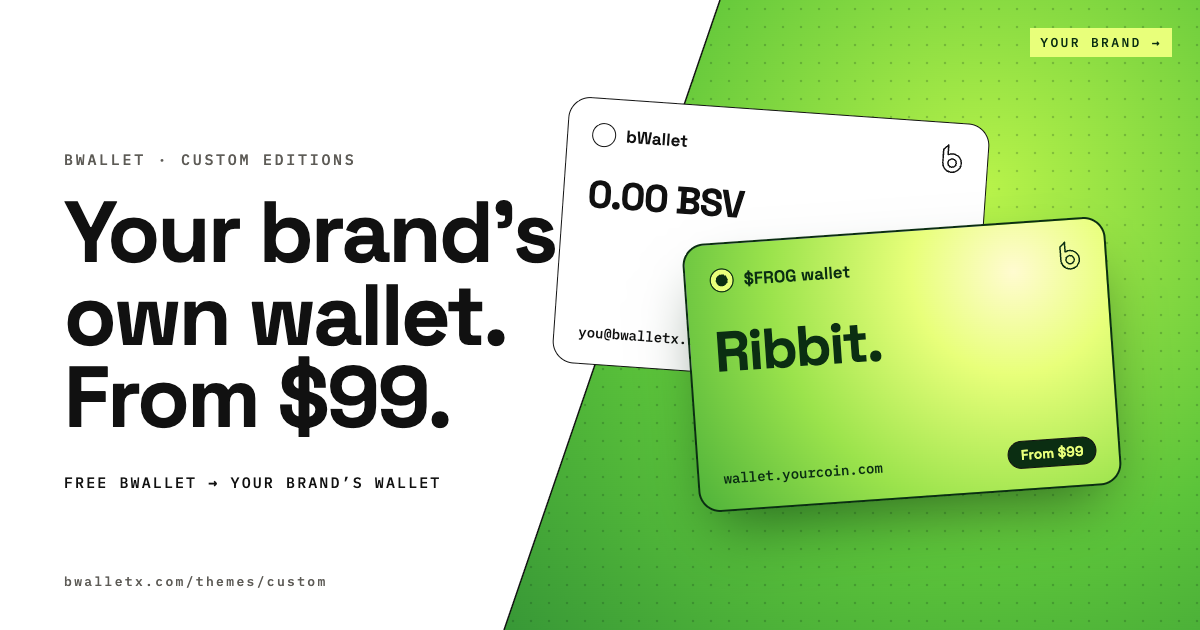
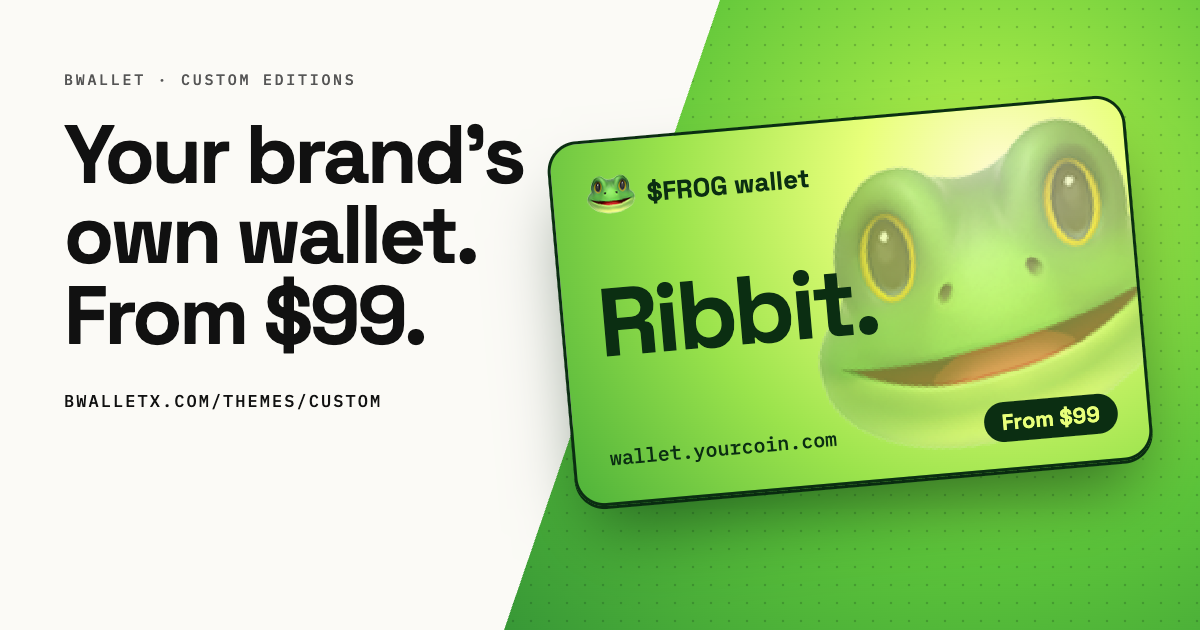
Custom editions: frog card art

diff --git a/themes-custom.html b/themes-custom.html
@@ -11,7 +11,7 @@
     <meta property="og:site_name" content="bWalletX" />
     <meta property="og:title" content="Meme wallets for memecoin communities. From $99." />
     <meta property="og:description" content="Your brand's own self-custody wallet: Theme edition $99/yr, Branded edition from $999, Native app by quote." />
-    <meta property="og:image" content="https://bwalletx.com/og-themes-custom.png" />
+    <meta property="og:image" content="https://bwalletx.com/og-themes-custom.png?v=2" />
     <meta property="og:image:width" content="1200" />
     <meta property="og:image:height" content="630" />
     <meta property="og:image:alt" content="A diagonal split: the free black-and-white bWallet card on white, cut through to a frog-green $FROG wallet card, headed Your brand&rsquo;s own wallet. From $99." />
@@ -19,7 +19,7 @@
     <meta name="twitter:site" content="@bWalletX" />
     <meta name="twitter:title" content="Meme wallets for memecoin communities. From $99." />
     <meta name="twitter:description" content="Your brand's own self-custody wallet: Theme edition $99/yr, Branded edition from $999, Native app by quote." />
-    <meta name="twitter:image" content="https://bwalletx.com/og-themes-custom.png" />
+    <meta name="twitter:image" content="https://bwalletx.com/og-themes-custom.png?v=2" />
     <link rel="icon" href="/favicon.ico" />
     <meta name="theme-color" content="#f7f6f2" />
     <link rel="preconnect" href="https://fonts.googleapis.com" />
@@ -222,7 +222,7 @@
       .cut .tag.a { left: 20px; top: 120px; color: var(--muted); border: .5px solid var(--hair); background: var(--sheet); }
       .cut .tag.b { right: 20px; top: 120px; color: #0b2e12; background: #e8ff7a; }
       .tp section.hero .num b { color: var(--ink); }
-      .card.frog { border: 2px solid #0b2e12; color: #0b2e12; border-radius: 22px;
+      .card.frog { container-type: inline-size; border: 2px solid #0b2e12; color: #0b2e12; border-radius: 22px;
         background: radial-gradient(circle at 78% 18%, #fffbd0 0, #e8ff7a 26%, #9be34c 62%, #4fb33a 100%);
         box-shadow: 0 30px 60px -20px rgba(6,40,14,.55), 0 2px 0 #0b2e12; transform: rotate(-4deg); }
       .card.frog .row1 i { border-color: #0b2e12; background: #0b2e12; box-shadow: inset 0 0 0 5px #e8ff7a; }
@@ -231,6 +231,8 @@
       .card.frog .sats { color: #1d5a24; }
       .card.frog .addr { color: #0b2e12; }
       .card.frog .chip { background: #0b2e12 !important; color: #e8ff7a !important; border-color: #0b2e12 !important; }
+      .card.frog .frogart { position: absolute; z-index: 0; right: -10%; top: 54%; font-family: "Apple Color Emoji", "Segoe UI Emoji", "Noto Color Emoji", sans-serif; font-size: 62cqw; line-height: 1; opacity: .48; transform: translateY(-50%) rotate(-12deg) skewX(-6deg); pointer-events: none; }
+      .card.frog .froglogo { font-family: "Apple Color Emoji", "Segoe UI Emoji", "Noto Color Emoji", sans-serif; font-size: 26px; line-height: 1; width: 30px; height: 30px; display: inline-grid; place-items: center; }
       .hero .obj { isolation: isolate; }
       .card.mono { position: absolute !important; inset: 0; transform: translate(-30%, -34%) rotate(3deg) scale(.86); z-index: -1; border-radius: 22px; box-shadow: 0 1px 0 rgba(0,0,0,.08); }
       .card.mono .bal { font-size: clamp(1.4rem, 3.6vw, 2.2rem); }
@@ -283,7 +285,8 @@
               <div class="chip">Free</div>
             </div>
             <div class="card frog" role="img" aria-label="An example frog-themed wallet card for a frog coin">
-              <div class="row1"><i></i>$FROG wallet</div>
+              <span class="frogart" aria-hidden="true">🐸</span>
+              <div class="row1"><span class="froglogo" aria-hidden="true">🐸</span>$FROG wallet</div>
               <svg class="bm" viewBox="0 0 104 124"><use href="#b-outline" /></svg>
               <div class="bal">Ribbit.</div>
               <div class="sats">Example: a frog wallet for a frog coin</div>
